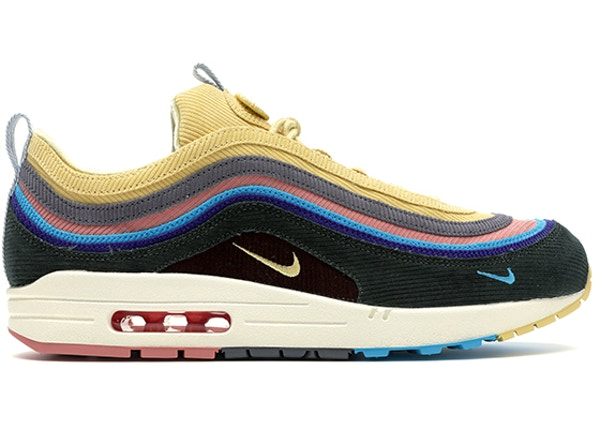
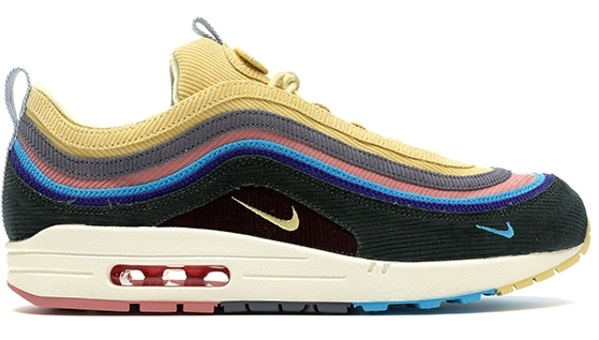
cambié tamaño img/nike

diff --git a/index.html b/index.html
@@ -45,7 +45,7 @@
 
       </header>
       <!-- carousel -------------------------------------->
-      <section class="vh-80">
+      <section class="vh-80 _carousel">
         <div class="bd-example">
     <div id="carouselExampleCaptions" class="carousel slide" data-ride="carousel">
       <ol class="carousel-indicators">
@@ -89,7 +89,7 @@
     </section>
 
 <!-- PRODUCTOS ---------------------------------------------->
-    <section class="_articles row p-5">
+    <section class="_articles row p-3">
       <article class="_article1 col-sm-12 col-md-6 col-lg-4">
         <img class="d-block w-100"src="IMG/adidas.jpg" alt="adidas">
         <h4>Adidas</h4>

diff --git a/css/master.css b/css/master.css
@@ -7,6 +7,8 @@ header{
   font-size: 1.5rem;
 }
 
+
+
 ._perfilList{
   overflow: hidden;
   list-style: none;
@@ -29,3 +31,6 @@ header{
   background-color: rgba(78, 78, 80, 0.8);
   color: black;
   }
+._carousel img{
+  
+}
